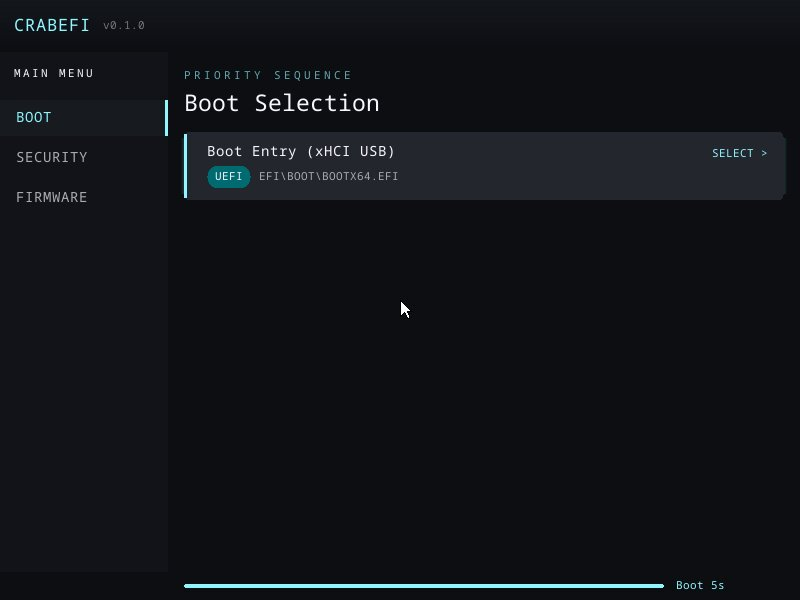
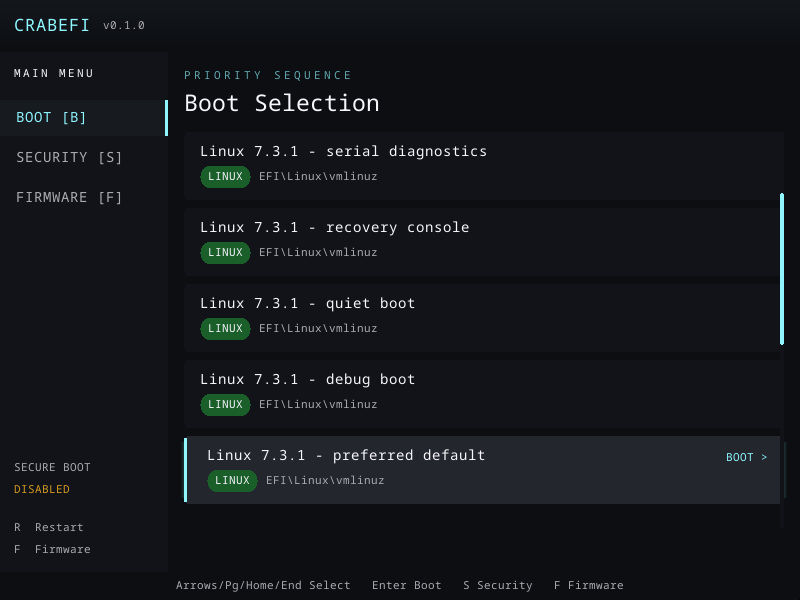
docs: refresh graphical boot menu screenshot

diff --git a/README.md b/README.md
@@ -6,10 +6,9 @@ CrabEFI implements enough UEFI to boot Linux via shim/GRUB2 or systemd-boot on r
 
 ![CrabEFI graphical boot menu](docs/screenshot.jpg)
 
-*Graphical boot menu (`--features ui`), captured headlessly with
-`./crabefi screenshot --app hello --out screenshot.png`. The command writes PPM
-directly or converts to PNG with ImageMagick; the referenced JPG was produced
-from that PNG with ImageMagick.*
+*Graphical boot menu (`--features ui`) running headlessly in QEMU at
+800×600 with BLS test entries from an EFI System Partition. Captured with
+QEMU `screendump` and converted from PNG to JPEG using ImageMagick.*
 
 ## Documentation
 
